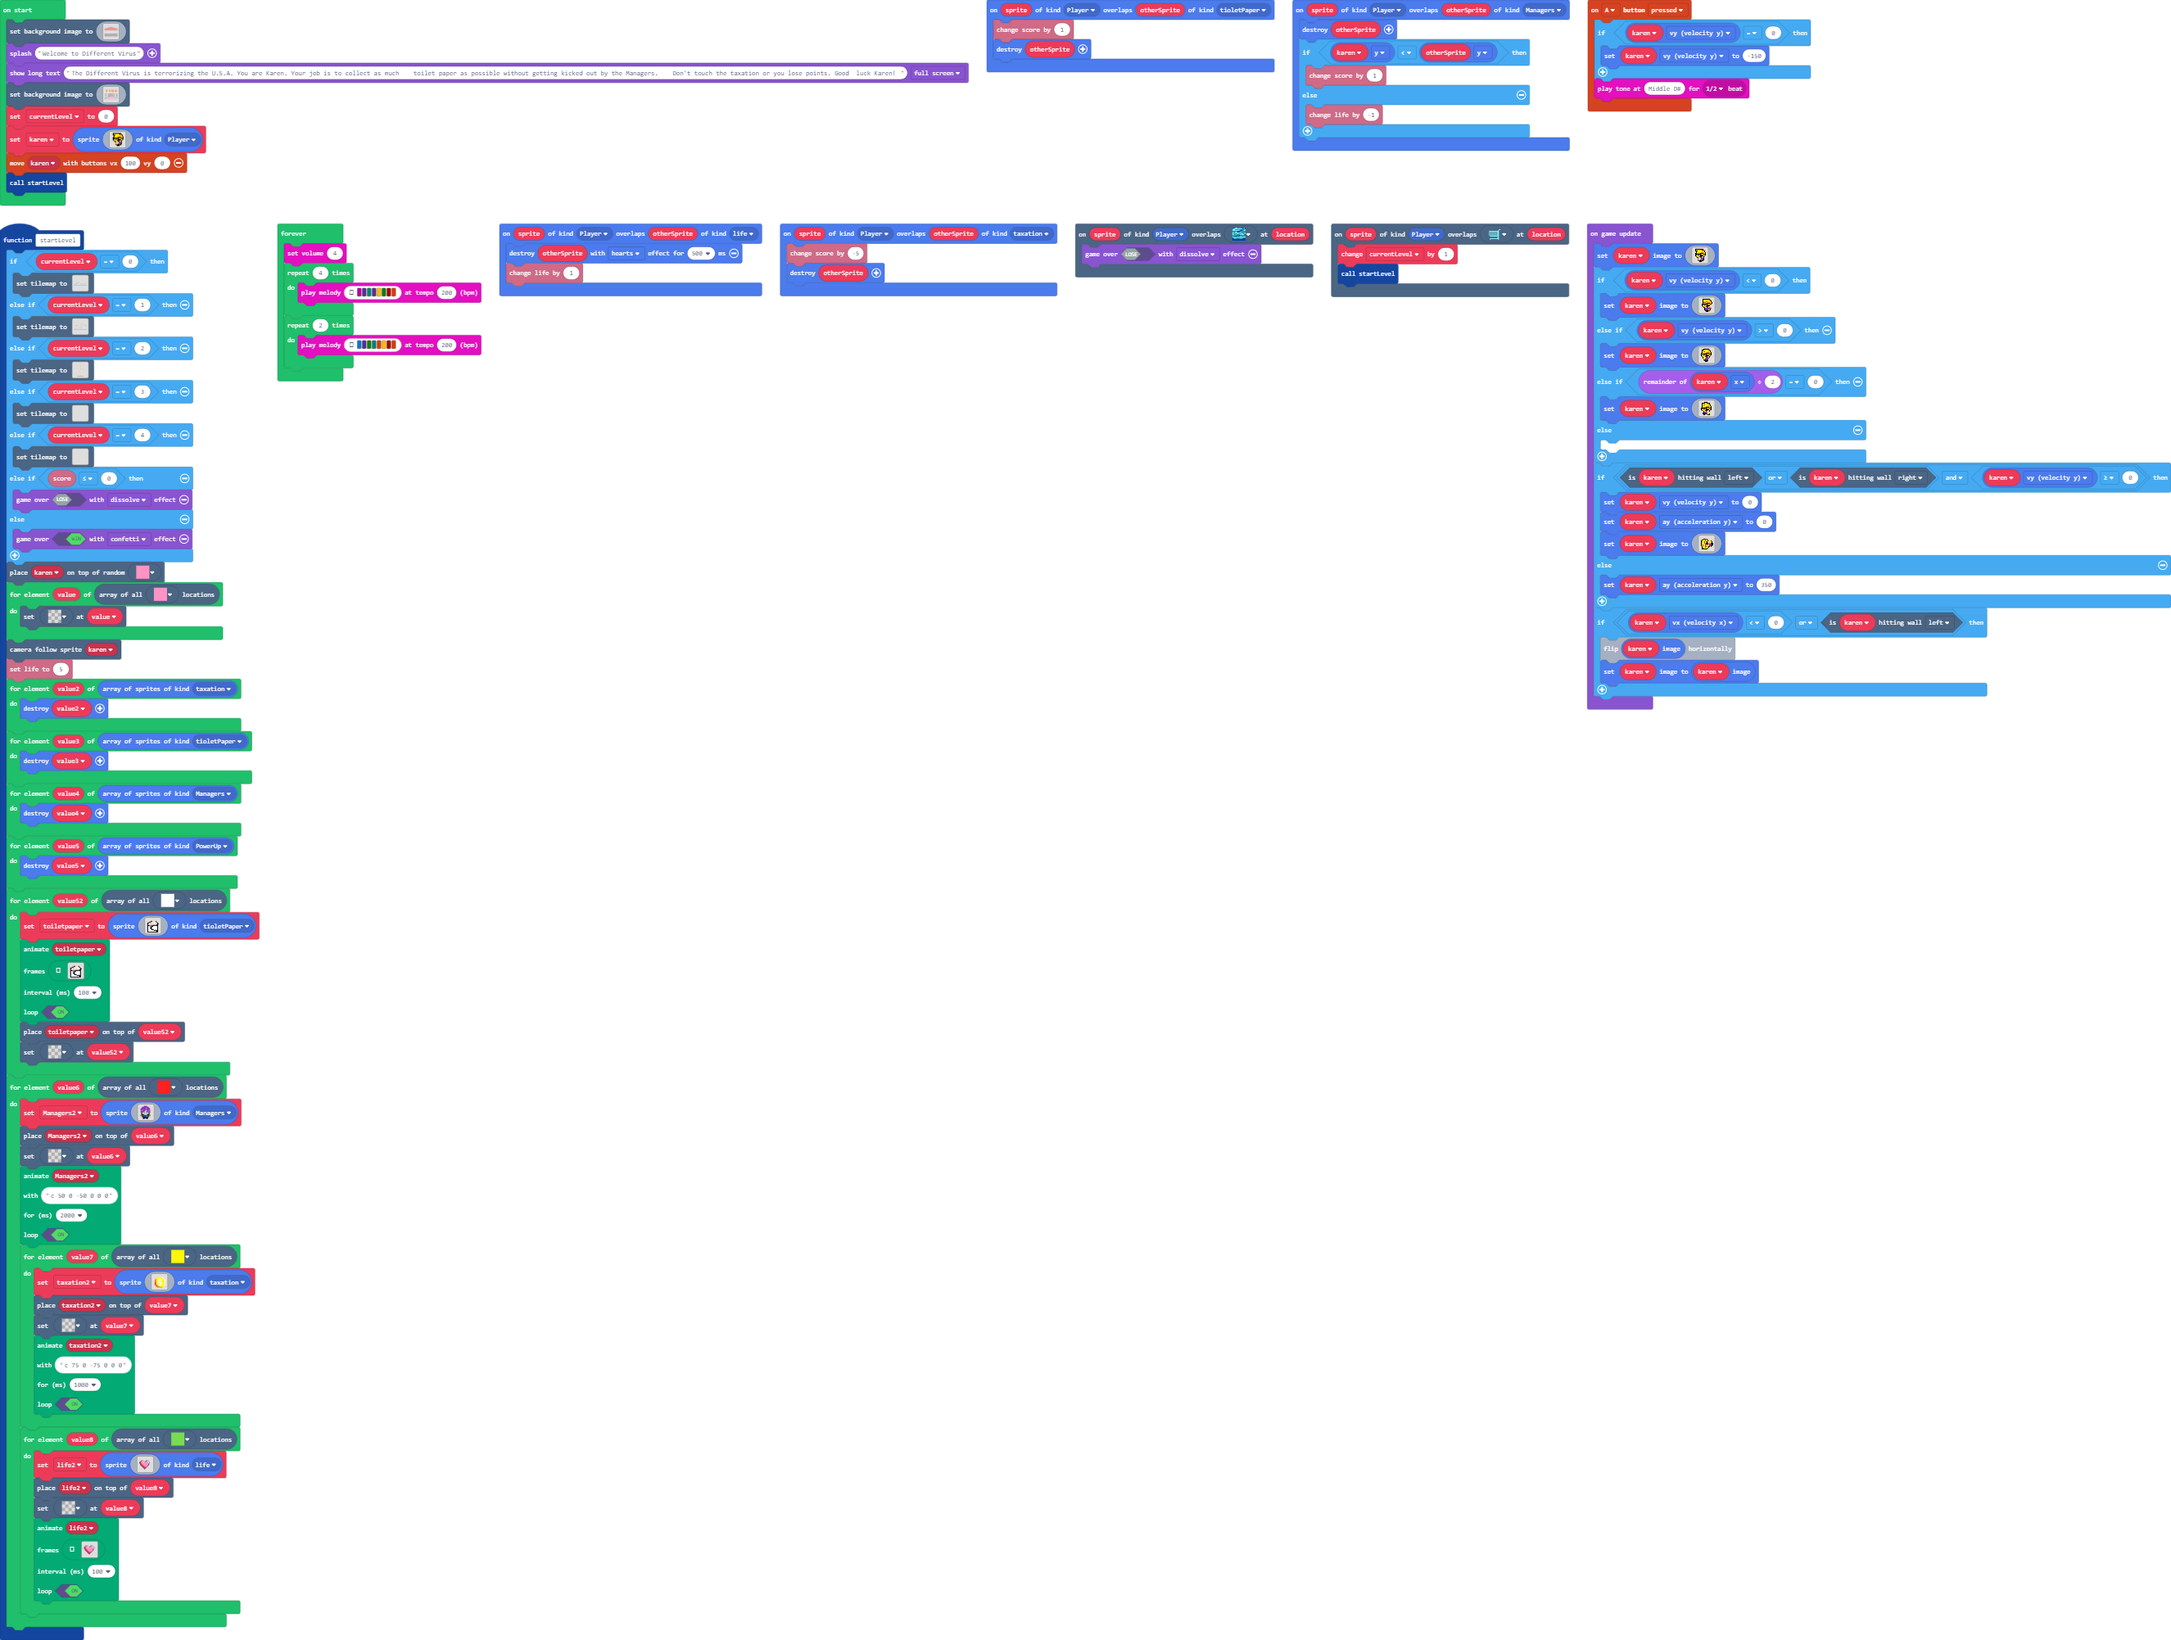
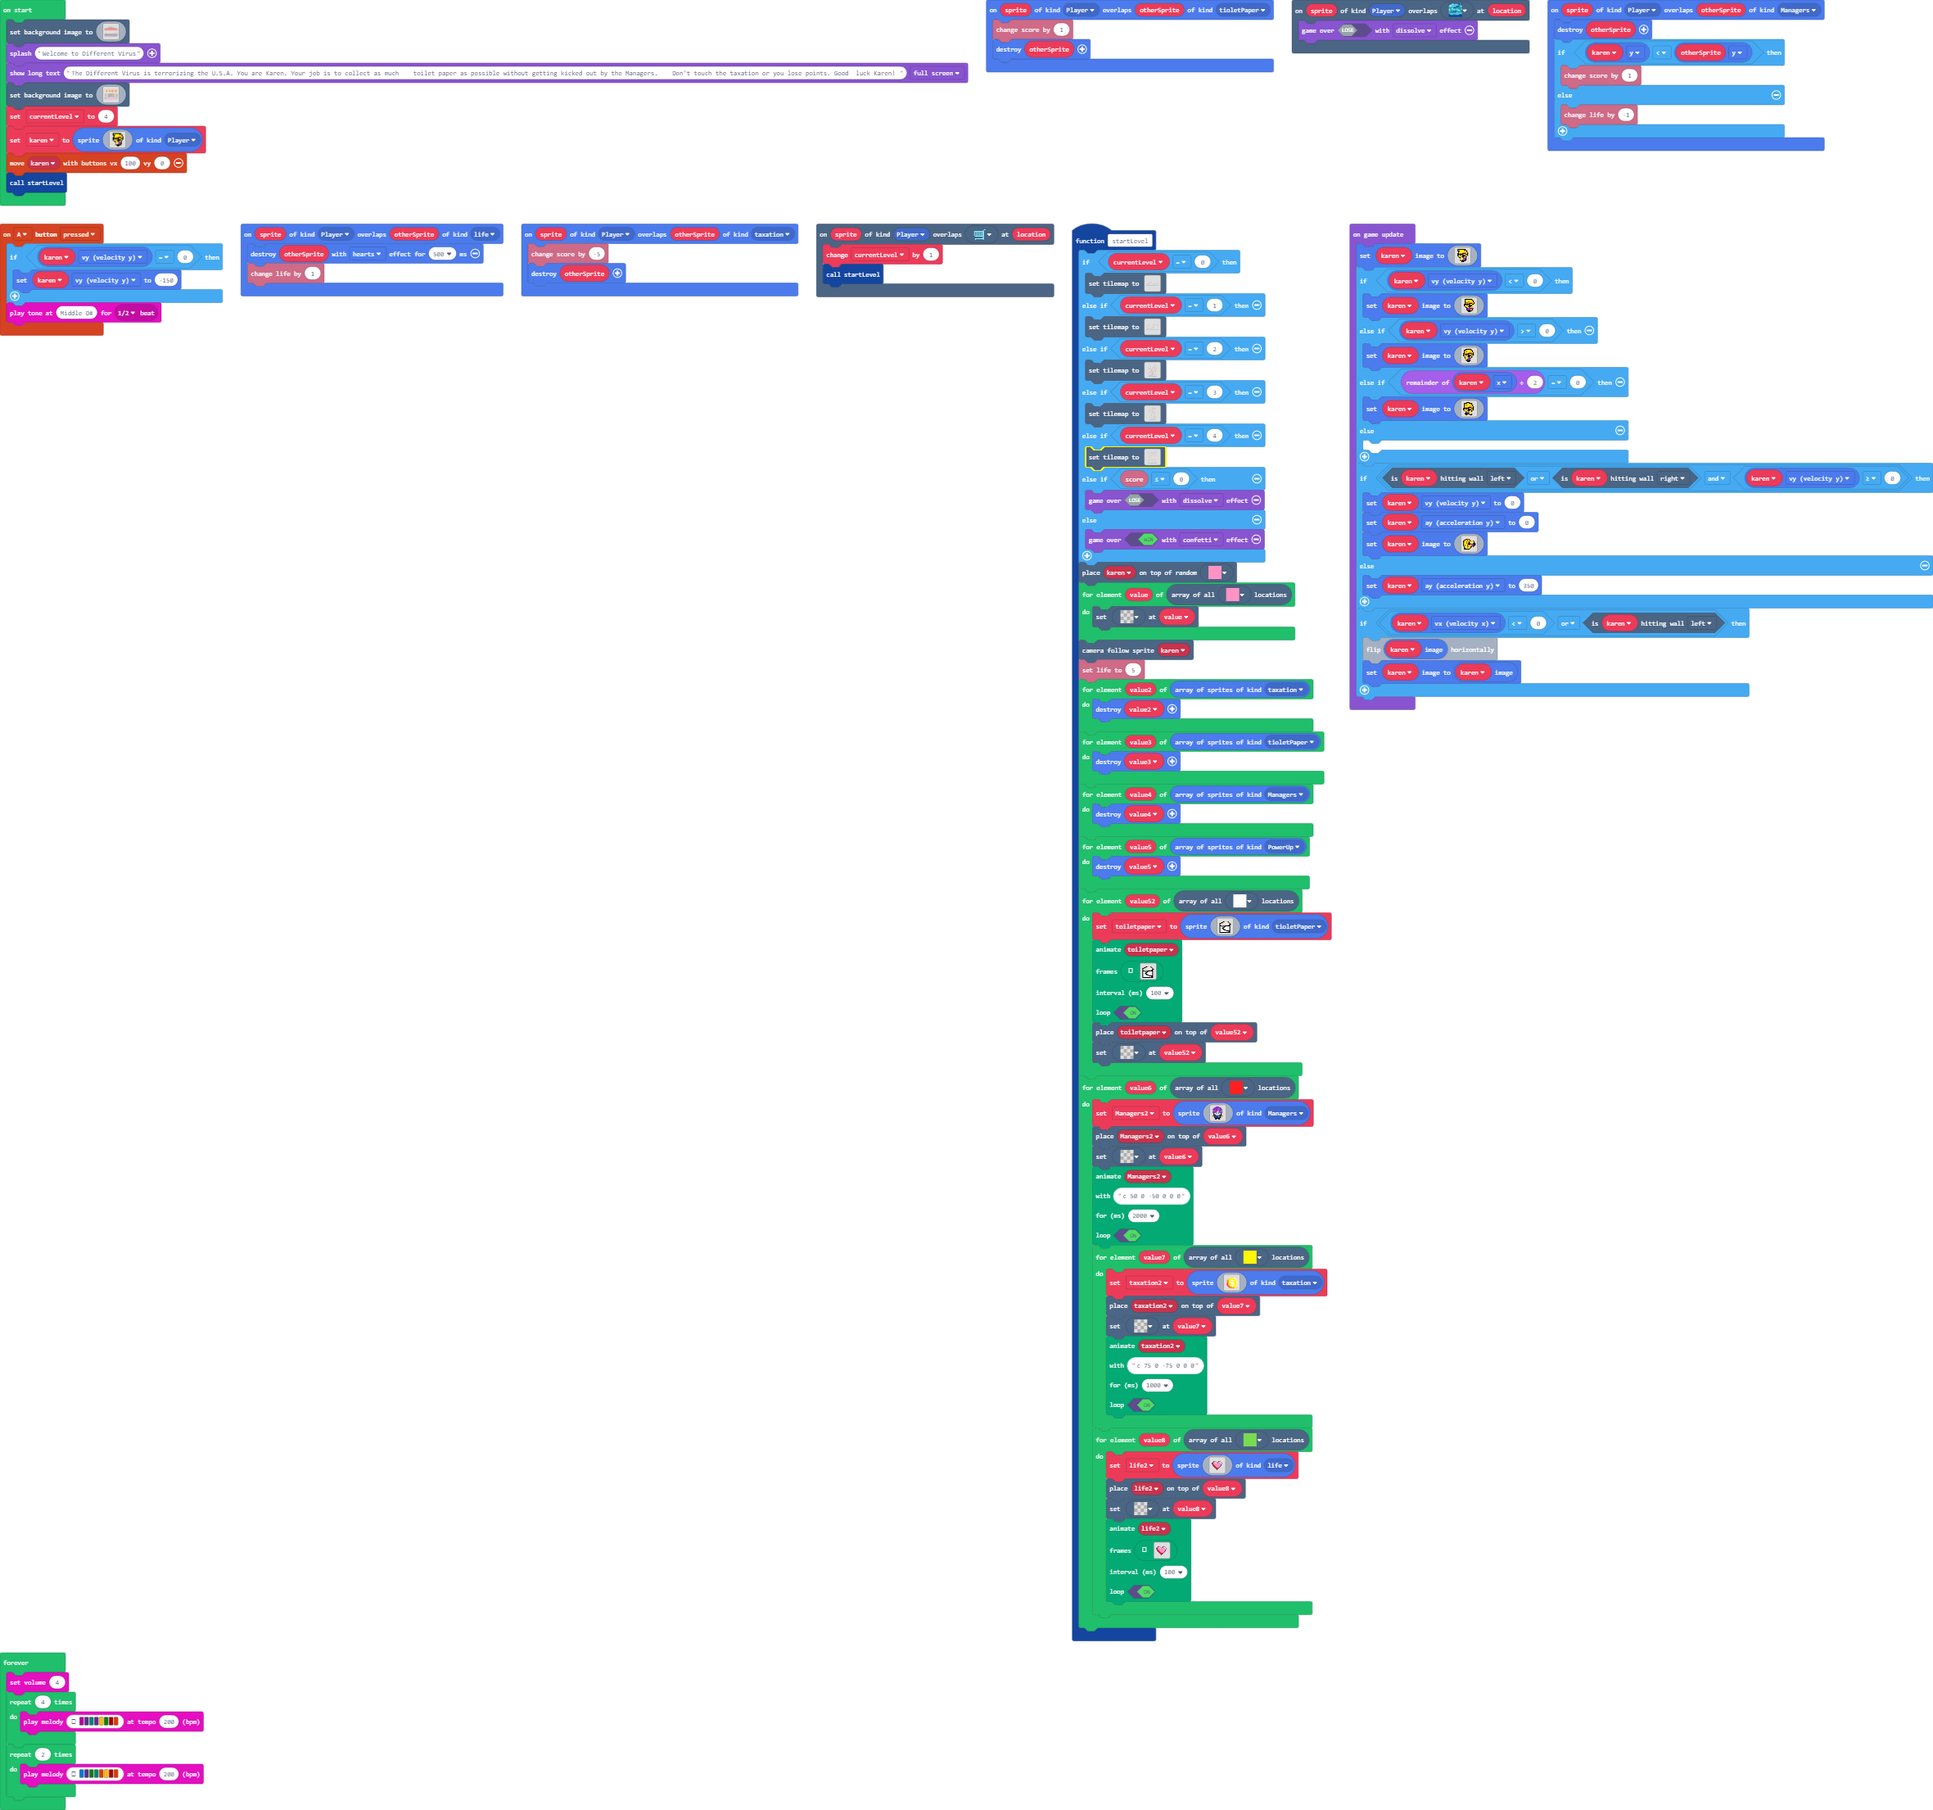
Almost done

Changed region(s): [[0.0, 0.0, 1.0, 1.0]]

diff --git a/main.ts b/main.ts
@@ -261,36 +261,10 @@ sprites.onOverlap(SpriteKind.Player, SpriteKind.tioletPaper, function (sprite, o
 scene.onOverlapTile(SpriteKind.Player, myTiles.tile9, function (sprite, location) {
     game.over(false, effects.dissolve)
 })
-sprites.onOverlap(SpriteKind.Player, SpriteKind.Managers, function (sprite, otherSprite) {
-    otherSprite.destroy()
-    if (karen.y < otherSprite.y) {
-        info.changeScoreBy(1)
-    } else {
-        info.changeLifeBy(-1)
-    }
-})
-controller.A.onEvent(ControllerButtonEvent.Pressed, function () {
-    if (karen.vy == 0) {
-        karen.vy = -150
-    }
-    music.playTone(311, music.beat(BeatFraction.Half))
-})
-sprites.onOverlap(SpriteKind.Player, SpriteKind.life, function (sprite, otherSprite) {
-    otherSprite.destroy(effects.hearts, 500)
-    info.changeLifeBy(1)
-})
-sprites.onOverlap(SpriteKind.Player, SpriteKind.taxation, function (sprite, otherSprite) {
-    info.changeScoreBy(-5)
-    otherSprite.destroy()
-})
-scene.onOverlapTile(SpriteKind.Player, myTiles.tile8, function (sprite, location) {
-    currentLevel += 1
-    startLevel()
-})
 function startLevel () {
     if (currentLevel == 0) {
         tiles.setTilemap(tiles.createTilemap(
[2 lines of base64/hex data omitted]
             img`
 . . . . . . . . . . . . . . . . . . . . . . . . . . . . . . . . . . . . . . . . . . . . . . . . . . 
 . . . . . . . . . . . . . . . . . . . . . . . . . . . . . . . . . . . . . . . . . . . . . . . . . . 
@@ -318,7 +292,7 @@ function startLevel () {
         ))
     } else if (currentLevel == 1) {
         tiles.setTilemap(tiles.createTilemap(
[2 lines of base64/hex data omitted]
             img`
 . . . . . . . . . . . . . . . . . . . . . . . . . . . . . . . . . . . . . . . . . . . . . . . . . . 
 . . . . . . . . . . . . . . . . . . . . . . . . . . . . . . . . . . . . . . . . . . . . . . . . . . 
@@ -351,7 +325,55 @@ function startLevel () {
         ))
     } else if (currentLevel == 2) {
         tiles.setTilemap(tiles.createTilemap(
[2 lines of base64/hex data omitted]
+            img`
+. . . . . . . . . . . . . . . . . . . . . . . . . 
+. . . . . . . . . . . . . . . . . . . . . . . . . 
+. . . . . . . . . . . . . . . . . . . . . . . . . 
+. . . . . . . . . . . . . . . . . . . . . . . . . 
+. . . . . . . . . . . . . . . . . . . . . . . . . 
+. . . . . . . . . . . . . . . . . . . . . . . . . 
+. . . . . . . 2 . . . . . . . . . . 2 2 2 2 2 . . 
+. . . . . . . 2 . . . . 2 . . . . . . . . . . . . 
+. . . . . . . 2 . . . . 2 . . . . . . . . . . . . 
+. . . . . . . 2 . . . . 2 . . . 2 . . . . . . . . 
+. . . . . . . 2 . . . . 2 . . . 2 . . . . . . 2 . 
+. . . . . . . 2 . . . . 2 . . . 2 . . 2 . . . 2 . 
+. . . . . . . 2 . . . . 2 . . . 2 . . 2 . . . 2 . 
+. . . . . . . 2 . . . . . . . . 2 . . 2 . . . 2 . 
+. . . . . . . 2 . . . . . . . . 2 . . 2 . . . 2 . 
+. . 2 2 2 2 . . . . . . . . . . . . . 2 . . . 2 . 
+. . . . . . . . . 2 . . . . . . . . . . . . . 2 . 
+. . . . . . . . . 2 . . . . 2 . . . . . . . . . . 
+. . . . . . . . . 2 . . . . 2 . . . . . . . . . . 
+. . . . . . . . . 2 . . . . 2 . . . . . . 2 . . . 
+. . . . . . 2 . . 2 . . . . 2 . . . . . . 2 . . . 
+. . . . . . 2 . . 2 . . . . 2 . . . . . . 2 . . . 
+. . . . . . 2 . . 2 . . . . 2 . . 2 . . . 2 . . . 
+. . . . . . 2 . . . . 2 . . . . . 2 . . . 2 . . . 
+. . 2 . . . 2 . . . . 2 . . . . . 2 . . . 2 . . . 
+. . 2 . . . . . . . . 2 . . . . . 2 . . . 2 . . . 
+. . 2 . . . . . . . . 2 . . . . . 2 . . . . . . . 
+. . 2 . . 2 . . . . . 2 . . . . . 2 . . . . . . . 
+. . 2 . . 2 . . 2 . . 2 . . . . . . . . . . . . . 
+. . 2 . . 2 . . 2 . . . . . 2 . . . . . . . . . . 
+. . 2 . . 2 . . 2 . . . . . 2 . . . . . . . . . . 
+. . 2 . . . . . 2 . . . . . 2 . . . . . . . . . . 
+. . 2 . . . . . 2 . . . . . 2 . . 2 2 2 2 2 . . . 
+. . . . . . . . 2 . . 2 . . 2 . . . . . . . . . . 
+. . . . . . . . . . . 2 . . . . . . . . . . . . . 
+. . . . . . . . . . . 2 . . . . . . . . . . . . . 
+. . . 2 2 2 2 2 . . . 2 . . . . . . . . . . . . . 
+. . . . . . . . . . . . . . . . . . . . . . . . . 
+. . . . . . . . . . . . . . . . . . . . . . . . . 
+. . . . . . . . . . . . . . . . . . . . . . . . . 
+`,
+            [myTiles.tile0,myTiles.tile1,myTiles.tile2,myTiles.tile3,myTiles.tile4,myTiles.tile5,myTiles.tile7,myTiles.tile8,myTiles.tile9,myTiles.tile12,myTiles.tile15,myTiles.tile16,myTiles.tile17],
+            TileScale.Sixteen
+        ))
+    } else if (currentLevel == 3) {
+        tiles.setTilemap(tiles.createTilemap(
[1 lines of base64/hex data omitted]
             img`
 . . . . . . . . . . . . . . . . . . . . . . . . . 
 . . . . . . . . . . . . . . . . . . . . . . . . . 
@@ -407,50 +429,60 @@ function startLevel () {
             [myTiles.tile0,myTiles.tile1,myTiles.tile2,myTiles.tile3,myTiles.tile4,sprites.dungeon.collectibleInsignia,myTiles.tile5,sprites.castle.tilePath1,sprites.castle.tilePath2,sprites.castle.tilePath5,sprites.dungeon.collectibleRedCrystal,myTiles.tile7,myTiles.tile8,myTiles.tile9,myTiles.tile12,myTiles.tile15,myTiles.tile16,myTiles.tile17],
             TileScale.Sixteen
         ))
-    } else if (currentLevel == 3) {
-        tiles.setTilemap(tiles.createTilemap(
-            hex`1000100000000000000000000000000000000000000000000000000000000000000000000000000000000000000000000000000000000000000000000000000000000000000000000000000000000000000000000000000000000000000000000000000000000000000000000000000000000000000000000000000000000000000000000000000000000000000000000000000000000000000000000000000000000000000000000000000000000000000000000000000000000000000000000000000000000000000000000000000000000000000000000000000000000000000000000000000000000000000000000000000000000000000000000000000000000000`,
-            img`
-. . . . . . . . . . . . . . . . 
-. . . . . . . . . . . . . . . . 
-. . . . . . . . . . . . . . . . 
-. . . . . . . . . . . . . . . . 
-. . . . . . . . . . . . . . . . 
-. . . . . . . . . . . . . . . . 
-. . . . . . . . . . . . . . . . 
-. . . . . . . . . . . . . . . . 
-. . . . . . . . . . . . . . . . 
-. . . . . . . . . . . . . . . . 
-. . . . . . . . . . . . . . . . 
-. . . . . . . . . . . . . . . . 
-. . . . . . . . . . . . . . . . 
-. . . . . . . . . . . . . . . . 
-. . . . . . . . . . . . . . . . 
-. . . . . . . . . . . . . . . . 
-`,
-            [myTiles.tile0,myTiles.tile1,myTiles.tile2,myTiles.tile3,myTiles.tile4,myTiles.tile5,myTiles.tile7,myTiles.tile8,myTiles.tile9,myTiles.tile12,myTiles.tile15,myTiles.tile16,myTiles.tile17],
-            TileScale.Sixteen
-        ))
     } else if (currentLevel == 4) {
         tiles.setTilemap(tiles.createTilemap(
-            hex`1000100000000000000000000000000000000000000000000000000000000000000000000000000000000000000000000000000000000000000000000000000000000000000000000000000000000000000000000000000000000000000000000000000000000000000000000000000000000000000000000000000000000000000000000000000000000000000000000000000000000000000000000000000000000000000000000000000000000000000000000000000000000000000000000000000000000000000000000000000000000000000000000000000000000000000000000000000000000000000000000000000000000000000000000000000000000000`,
[1 lines of base64/hex data omitted]
             img`
-. . . . . . . . . . . . . . . . 
-. . . . . . . . . . . . . . . . 
-. . . . . . . . . . . . . . . . 
-. . . . . . . . . . . . . . . . 
-. . . . . . . . . . . . . . . . 
-. . . . . . . . . . . . . . . . 
-. . . . . . . . . . . . . . . . 
-. . . . . . . . . . . . . . . . 
-. . . . . . . . . . . . . . . . 
-. . . . . . . . . . . . . . . . 
-. . . . . . . . . . . . . . . . 
-. . . . . . . . . . . . . . . . 
-. . . . . . . . . . . . . . . . 
-. . . . . . . . . . . . . . . . 
-. . . . . . . . . . . . . . . . 
-. . . . . . . . . . . . . . . . 
+. . . . . . . . . . . . . . . . . . . . . . . . . . . . . . . . . . . 
+. . . . . . . . . . . . . . . . . . . . . . . . . . . . . . . . . . . 
+. . . . . . . . . . . . . . . . . . . . . . . . . . . . . . . . . . 2 
+. . . . . . . . . . . . . . . . . . . . . . . . . . . . . . . . . . 2 
+. . . . . . . . . . . . . . . 2 . . . . . . . . . . . 2 . . 2 2 . . 2 
+. . . . . . . . . . . . . . . 2 . . . . . . . . . . . 2 . . . . . . 2 
+. . . . . 2 . . . . . . . . . 2 . . . 2 2 2 2 2 2 . . 2 . . . . . . 2 
+. . . . . 2 . . . . . . 2 . . 2 . . . . . . . . . . . 2 . . . . . . 2 
+. . . . . 2 . . . . . . 2 . . . . . . . . . . . . . . 2 . . . . 2 . 2 
+. . . . . 2 . . . . . . 2 . . . . . . . . . . . . . . 2 . . 2 . . . . 
+. . 2 . . . . . . . . . 2 . . . . . . . . . . . . . . 2 . . . . . . . 
+. . 2 . . . . . . . . . 2 . . . . . . . . . . . . . . 2 . . . . . . . 
+. . 2 . . . . 2 . . . . 2 . . . . 2 2 2 2 2 2 2 2 . . . . . . . . . . 
+. . 2 . . . . 2 . . . . . . . . . . . . . . . . . . . . . . . . . . . 
+. . 2 . . . . 2 . . . . . . . . . . . . . . . . . . . . . 2 2 2 . . . 
+. . 2 . . . . 2 . . . . . . . . . . . . . . . . . . . . . . . . . . . 
+. . . . . . . 2 . . . . . . . . . . . . . . 2 . . . . . . . . . . . . 
+. . . . . . . 2 . . . . . . . . . . . . . . . . . . 2 2 2 2 2 2 . . . 
+. . . . . . . 2 . . . . . . 2 . . . . . . . . . . . . . . . . . . . . 
+. . . . . . . 2 . . . . . . . . . . . . . . 2 . . . . . . . . . . . . 
+. . . . . . . . . . 2 . . . . . . . 2 . . . 2 . . . . . . . . . . . . 
+. . . . . . . . . . . . . . . . . . . . . . 2 . . . . . . . . . . . . 
+. . . 2 2 2 . . . . . . . . . . . . . . . . 2 . . . . . . . . . . . . 
+. . . . . . . . . . . . . . . . . . . . . . 2 . . . . . 2 . . . . . . 
+. . . . . . . . 2 . . 2 . . . . 2 . . . . . 2 . . . . . 2 . . . . . . 
+. . . . . . . . 2 . . 2 . . . . 2 . . . . . 2 . . . . . 2 . . . . . . 
+. . . . . . . . 2 . . 2 . . . . 2 . . . . . . . . . . . 2 . . . . . . 
+. . . . . . . . 2 . . 2 . . . . 2 . . . . . . . . . . . 2 . . . . . . 
+. . . . . . . . . . . 2 . . . . 2 . . . . . . . . . . . 2 . . . . . . 
+. . 2 . . . . . . . . 2 . . . . 2 . . . . . . . . . . . 2 . . . . . . 
+. . . . . . . . . . . 2 . . . . 2 . . . . . . . . . . . . . . . . . . 
+. . . . . 2 . . . . . . . . . . 2 . . . . . . . . . . . . . . . . . . 
+. . . . . . . . . . . . . . . . . . . . . 2 2 2 2 2 2 . . . . . . . . 
+. . . . . . . . . 2 . . . . . . . . . . . . . . . . . . . . 2 . . . . 
+. . . . . . . . . . . . . 2 . . . . . . . . . . . . . . . . . . . . . 
+. . . . . . . . . . . . . 2 . . . 2 . . . . 2 . . . . . . . . . . 2 . 
+. . . . . . . . . . . . . 2 . . . . . . . . 2 . . . . . . . . . . . . 
+. . . . . . . . . . . . . 2 . . . . . . . . 2 . . . . 2 2 2 2 2 . . . 
+. . 2 2 2 2 2 2 . . . . . 2 . . . . . . . . 2 . . . . . . . . . . . . 
+. . . . . . . . . . . . . 2 . . . 2 . . . . 2 . . . . . . . . . . . . 
+. . . . . . . . . . . . . . . . . 2 . . . . 2 . . . . . . . . . . . . 
+. . . . . . . . . . . . . . . . . 2 . . . . . . . . . . . . . . . . . 
+. . . . . . . . . . . . . . . . . 2 . . . . . . . . . . . . . . . . . 
+. . . . . . . . . . . . . . . . . 2 . . . . . . . . . . . . . . . . . 
+. . . . . . . . . . . . 2 . . . . 2 . . . . . . . . . . . . . . . . . 
+. . . . . . . . . . . . . . . . . . . . . . . . 2 . . . . . . . . . . 
+. . . 2 2 2 2 2 . . . . . . . . . . . . . . . . . . . . 2 2 2 2 . . . 
+. . . . . . . . . . . . . 2 2 2 2 2 2 2 . . . . . . . . . . . . . . . 
+. . . . . . . . . . . . . . . . . . . . . . . . . . . . . . . . . . . 
+. . . . . . . . . . . . . . . . . . . . . . . . . . . . . . . . . . . 
 `,
             [myTiles.tile0,myTiles.tile1,myTiles.tile2,myTiles.tile3,myTiles.tile4,myTiles.tile5,myTiles.tile7,myTiles.tile8,myTiles.tile9,myTiles.tile12,myTiles.tile15,myTiles.tile16,myTiles.tile17],
             TileScale.Sixteen
@@ -948,6 +980,32 @@ d d f 8 8 8 8 8 8 f d d .
         }
     }
 }
+sprites.onOverlap(SpriteKind.Player, SpriteKind.Managers, function (sprite, otherSprite) {
+    otherSprite.destroy()
+    if (karen.y < otherSprite.y) {
+        info.changeScoreBy(1)
+    } else {
+        info.changeLifeBy(-1)
+    }
+})
+controller.A.onEvent(ControllerButtonEvent.Pressed, function () {
+    if (karen.vy == 0) {
+        karen.vy = -150
+    }
+    music.playTone(311, music.beat(BeatFraction.Half))
+})
+sprites.onOverlap(SpriteKind.Player, SpriteKind.life, function (sprite, otherSprite) {
+    otherSprite.destroy(effects.hearts, 500)
+    info.changeLifeBy(1)
+})
+sprites.onOverlap(SpriteKind.Player, SpriteKind.taxation, function (sprite, otherSprite) {
+    info.changeScoreBy(-5)
+    otherSprite.destroy()
+})
+scene.onOverlapTile(SpriteKind.Player, myTiles.tile8, function (sprite, location) {
+    currentLevel += 1
+    startLevel()
+})
 let life2: Sprite = null
 let taxation2: Sprite = null
 let Managers2: Sprite = null
@@ -1200,7 +1258,7 @@ scene.setBackgroundImage(img`
 3 3 3 3 8 8 8 8 8 8 8 8 8 8 8 8 8 8 8 8 8 8 8 8 8 8 8 8 8 8 8 8 8 3 3 3 3 3 3 3 3 3 3 3 3 3 3 3 3 3 3 3 3 3 3 3 3 3 3 3 3 3 3 3 3 3 3 3 3 3 3 3 3 3 3 3 3 3 3 3 3 3 3 3 3 3 3 3 3 3 3 3 3 3 3 3 3 3 3 3 3 3 3 3 3 3 3 3 3 3 3 3 3 3 3 3 3 3 3 3 3 3 3 3 3 3 3 3 3 3 3 3 3 3 8 8 e e 9 9 9 9 9 9 9 9 1 9 9 1 1 1 1 1 1 1 b 8 8 3 
 3 3 3 3 8 8 8 8 8 8 8 8 8 8 8 8 8 8 8 8 8 8 8 8 8 8 8 8 8 8 8 8 8 3 3 3 3 3 3 3 3 3 3 3 3 3 3 3 3 3 3 3 3 3 3 3 3 3 3 3 3 3 3 3 3 3 3 3 3 3 3 3 3 3 3 3 3 3 3 3 3 3 3 3 3 3 3 3 3 3 3 3 3 3 3 3 3 3 3 3 3 3 3 3 3 3 3 3 3 3 3 3 3 3 3 3 3 3 3 3 3 3 3 3 3 3 3 3 3 3 3 3 3 3 8 8 8 8 8 8 8 8 8 8 8 8 8 8 8 8 8 8 8 8 8 1 8 8 8 3 
 `)
-currentLevel = 0
+currentLevel = 4
 karen = sprites.create(img`
 . . f f f f f f f f f f . . . . 
 . . f 5 5 5 5 5 5 5 f 4 f . . . 
